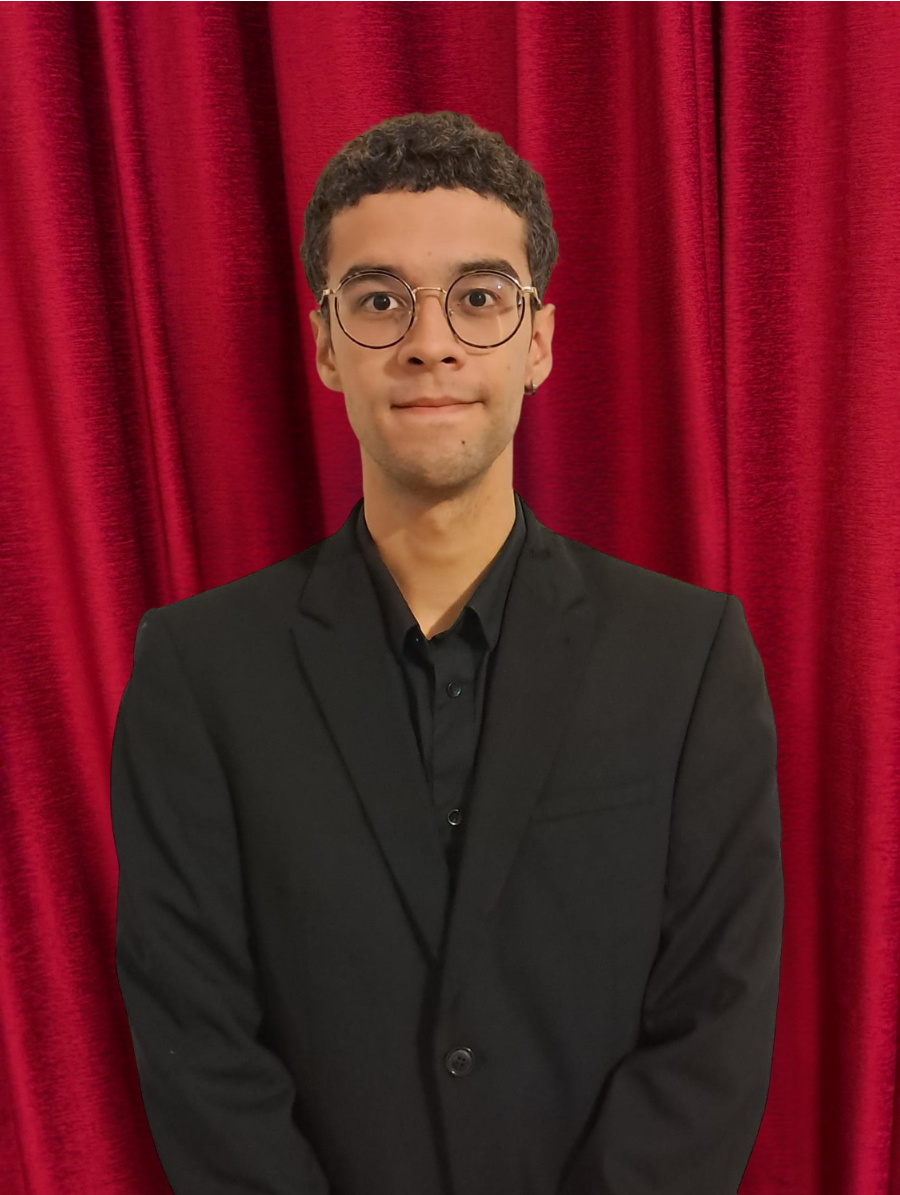
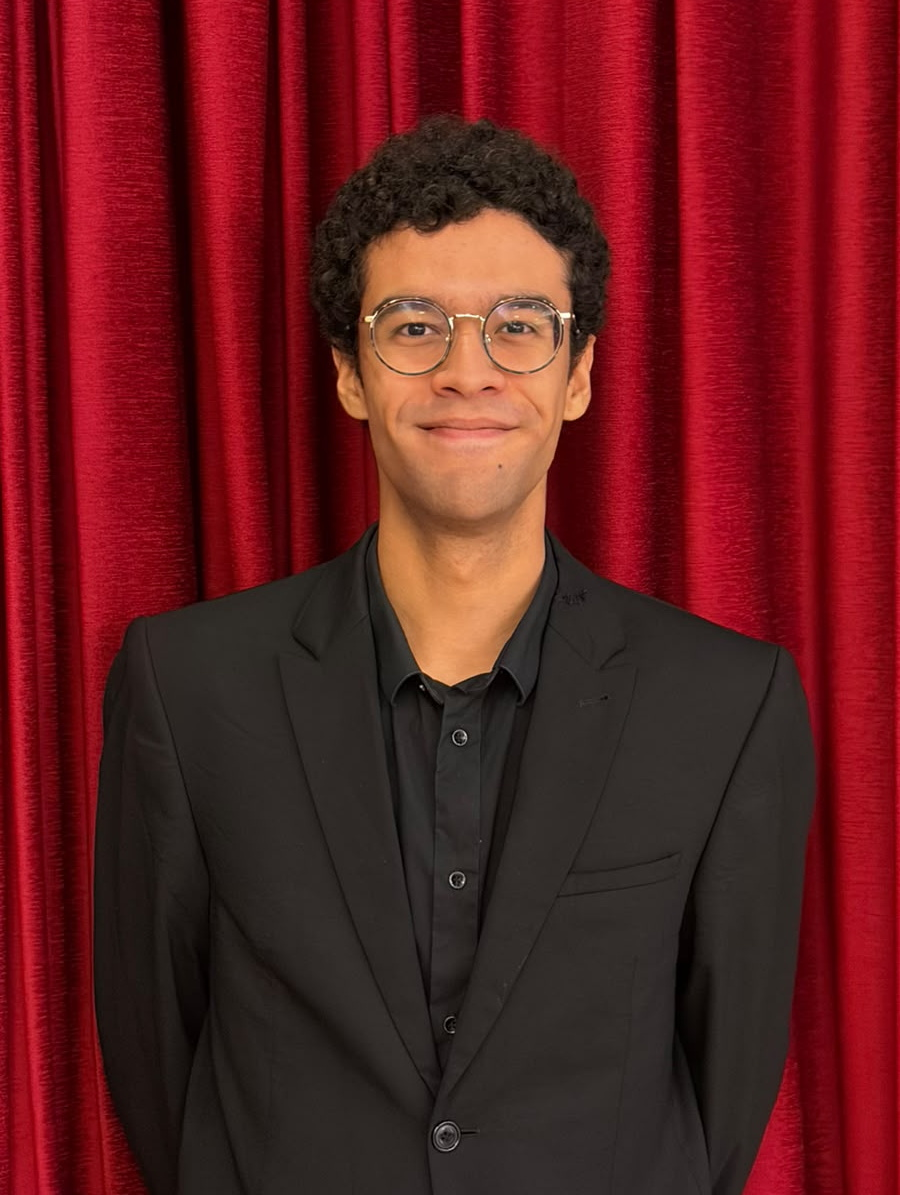
New photos choriste

diff --git a/src/infos-pratiques.html b/src/infos-pratiques.html
@@ -49,20 +49,20 @@ image: /images/recrutements2.jpg
 					<span class="absolute -top-5 h-6 w-[2px] bg-white"></span>
 					<span class="absolute -top-6 inline-block h-3 w-3 rounded-full bg-[#c79b6a] shadow"></span>
 					
-					<div
+					<!--<div
 					class="md:w-2/3 text-center px-5 py-2 rounded-md bg-primary text-white
 					ring-2 ring-[#00ff88] outline outline-1 outline-white -outline-offset-4
 					shadow-lg animate-pulse-green">
 						<span class="font-extrabold tracking-wide uppercase">Les recrutements sont ouverts</span>
-					</div>
-					<!--<div
+					</div>-->
+					<div
 						class="md:w-2/3 text-center px-5 py-2 rounded-md bg-primary text-white
 						ring-2 ring-red-500 outline outline-1 outline-white -outline-offset-4
 						shadow-lg">
 						<span class="font-extrabold tracking-wide uppercase">
 							Les recrutements sont fermés
 						</span>
-					</div>-->
+					</div>
 				</div>
 				
 				<!-- Bloc descriptif -->
@@ -89,7 +89,7 @@ image: /images/recrutements2.jpg
 				<!-- ===== Liens ===== -->
 				<div class="grid grid-cols-1 md:grid-cols-2 gap-6">
 					
-					<!-- Candidature Butterfly -->
+					<!-- Candidature Butterfly -->	<!--
 					<div class="relative overflow-hidden rounded-xl ring-1 ring-white/15 bg-white/5 backdrop-blur-[1px]">
 						<div class="p-2 md:p-2 flex flex-col items-center text-center gap-1">
 
@@ -102,16 +102,15 @@ image: /images/recrutements2.jpg
 								<div class="text-white/80">Formulaire d’inscription</div>
 							</div>
 							
-							<a href="https://forms.gle/YFuXVfZAMJKkuYD69"
+							<a href=""
 							class="mt-2 inline-flex items-center justify-center px-6 py-2 rounded-full font-semibold
-							bg-[#c79b6a] text-dark hover:bg-[#d2ab7f] transition shadow"
-							target="_blank" rel="noopener noreferrer">
+							bg-[#c79b6a] text-dark hover:bg-[#d2ab7f] transition shadow cursor-not-allowed"
+							target="" rel="noopener noreferrer">
 								Postuler
 							</a>
 						</div>
 					</div>
 					
-					<!-- Œuvre imposée -->
 					<div class="relative overflow-hidden rounded-xl ring-1 ring-white/15 bg-white/5 backdrop-blur-[1px]">
 						<div class="p-2 md:p-2 flex flex-col items-center text-center gap-1">
 							
@@ -123,15 +122,14 @@ image: /images/recrutements2.jpg
 								<div class="text-lg md:text-xl font-extrabold tracking-wide uppercase">Œuvre imposée</div>
 								<div class="text-white/80"></div>
 							</div>
-							
-							<a href="/docs/impose_recrutement.pdf"
+							<a href=""
 							class="mt-2 inline-flex items-center justify-center px-6 py-2 rounded-full font-semibold
-							bg-[#c79b6a] text-dark hover:bg-[#d2ab7f] transition shadow"
-							target="_blank" rel="noopener noreferrer" download>
+							bg-[#c79b6a] text-dark hover:bg-[#d2ab7f] transition shadow cursor-not-allowed "
+							target="" rel="noopener noreferrer"> 
 								Télécharger
 							</a>
 						</div>
-					</div>
+					</div>-->
 					
 				</div>
 				

diff --git a/src/le-choeur.html b/src/le-choeur.html
@@ -66,7 +66,7 @@ image: /images/choeur.jpg
     </div>
     <!-- Grille -->
    
-<div class="grid grid-cols-2 sm:grid-cols-3 md:grid-cols-4 lg:grid-cols-5 mx-10 gap-8">
+<div class="grid grid-cols-2 sm:grid-cols-3 md:grid-cols-4 lg:grid-cols-6 mx-10 gap-8">
    <link href="https://fonts.googleapis.com/css2?family=Caveat:wght@600&display=swap" rel="stylesheet">
     <style>
       .font-polaroid { font-family: "Caveat", ui-serif, system-ui; font-size: larger; }
@@ -75,7 +75,6 @@ image: /images/choeur.jpg
   {% for c in collections.choristes %}
 
     <div class="relative group">
-      {# --- carte polaroid --- #}
       <div class="z-40 bg-white rounded-sm shadow-lg ring-1 ring-black/10 relative
                   p-3 pb-12 w-full transition-transform duration-200 ease-out
                   {{ rot }} group-hover:-translate-y-1 group-hover:rotate-0">
@@ -87,7 +86,6 @@ image: /images/choeur.jpg
           {% endif %}
         </div>
 
-        {# --- légende en bas, “écrite” sur la marge — #}
         <div class="absolute bottom-3 left-0 right-0 px-3">
           <p class="text-center font-polaroid text-xl leading-none text-slate-900">
             {{ c.data.name }}

diff --git a/src/choristes/zoltan.md b/src/choristes/zoltan.md
@@ -1,0 +1,6 @@
+---
+name: "Zoltan"
+voice: "Ténor"
+photo: "/images/choristes/nopp.jpg"
+order: 10
+---

diff --git a/src/choristes/lulu.md b/src/choristes/lulu.md
@@ -1,0 +1,6 @@
+---
+name: "Lulu"
+voice: "Basse"
+photo: "/images/choristes/nopp.jpg"
+order: 13
+---
